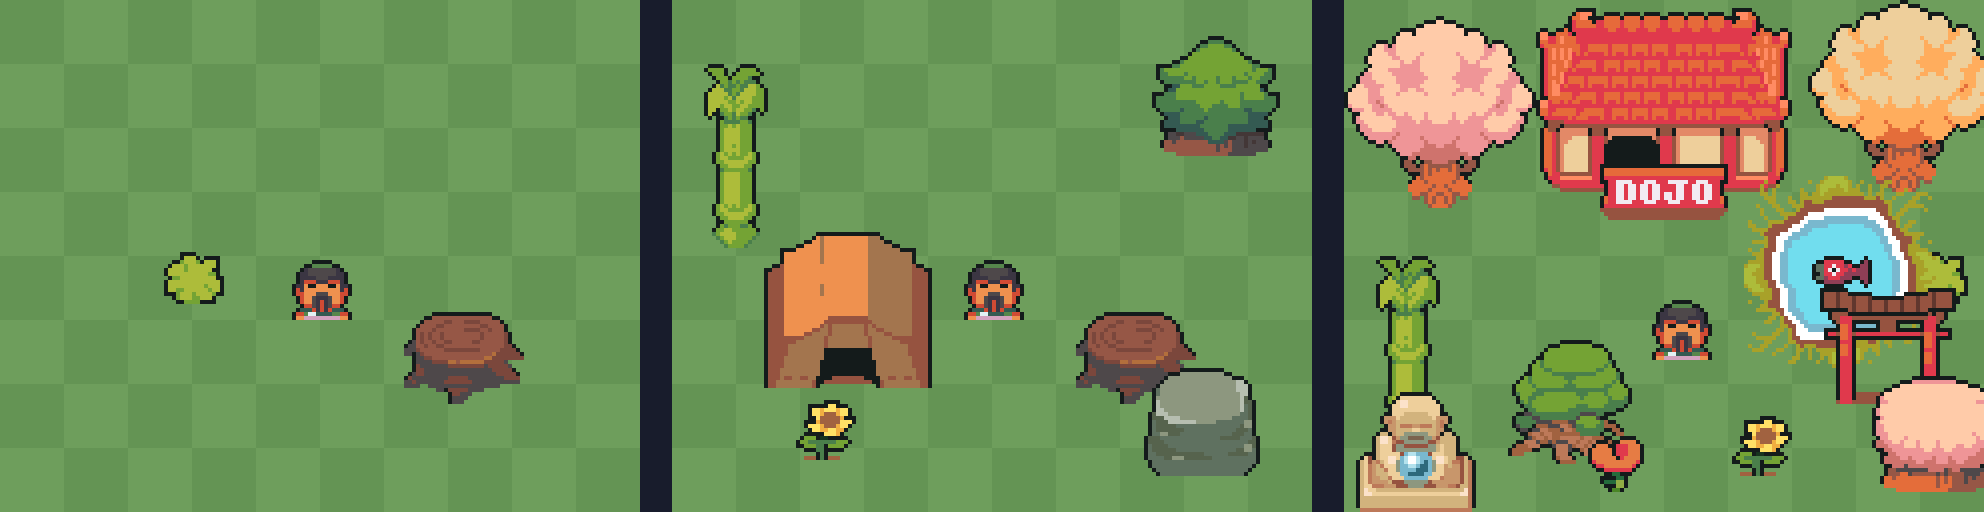
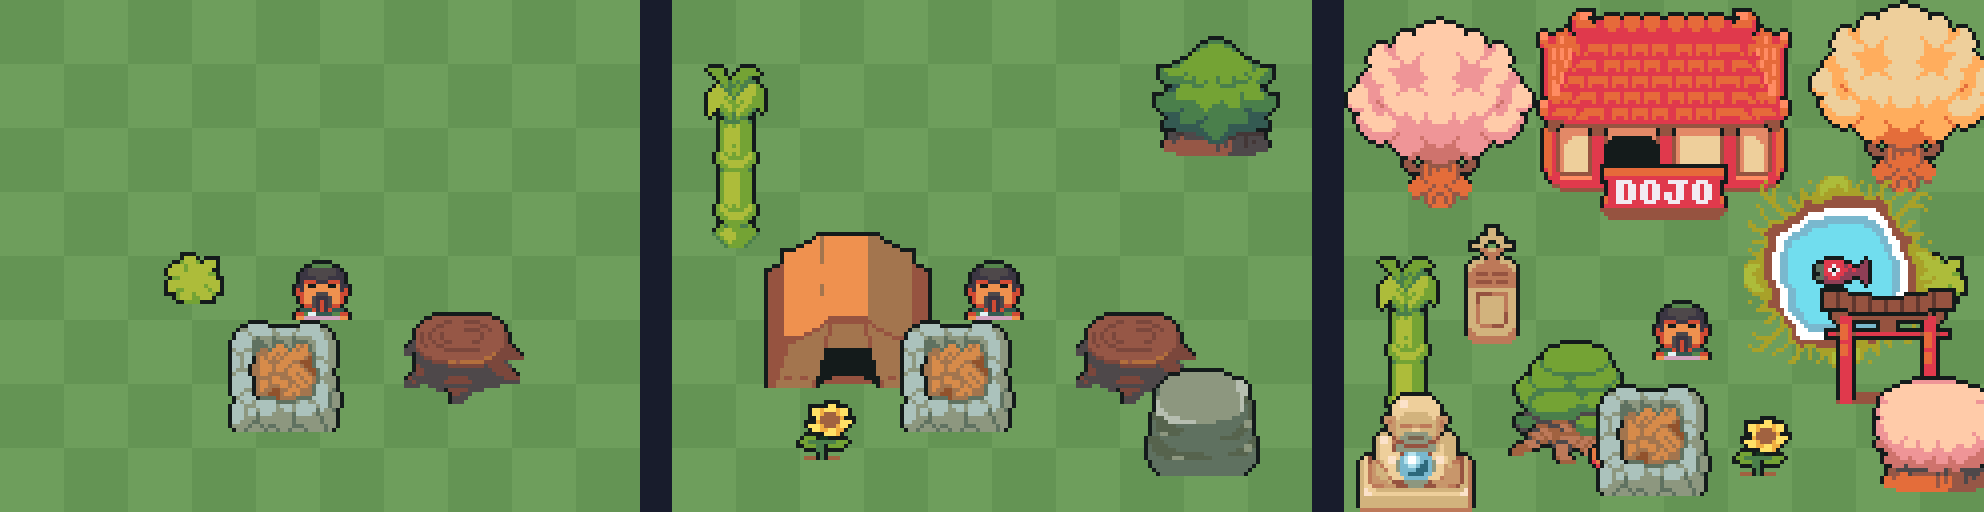
feat(art): fire pit, training post, bridge, potted plant sprites + 8 belt-coloured hero sheets [T2]

diff --git a/art/tools/build_sprites.py b/art/tools/build_sprites.py
@@ -41,7 +41,14 @@ SPRITES: dict[str, tuple[str, int, int, int, int]] = {
     "tent": ("TilesetHouse.png", 0, 112, 48, 48),
     "statue": ("TilesetHouse.png", 48, 240, 32, 32),
     "pond": ("TilesetWater.png", 0, 96, 48, 48),
+    "fire-pit": ("tileset_camp.png", 161, 50, 30, 28),
+    "training-post": ("TilesetElement.png", 1, 81, 14, 30),
+    "potted-plant": ("TilesetElement.png", 0, 120, 15, 24),
+    "bridge": ("TilesetHouse.png", 144, 240, 48, 48),
 }
+
+# The Monk's headband pixels (dark, light). Recoloured per belt so the headband shows your rank.
+HEADBAND = ((52, 90, 82), (86, 134, 76))
 
 # Belt colours for palette-swapping the character's belt pixels.
 BELTS = {
@@ -78,8 +85,28 @@ def knock_out_edges(img: Image.Image, tolerance: int = 40) -> Image.Image:
 
 def character() -> Image.Image:
     """First frame (facing down) of the pack's Monk sprite sheet: 16x16 cells, 4 columns."""
-    sheet = Image.open(PACK / "Actor" / "Character" / "Monk" / "SpriteSheet.png").convert("RGBA")
-    return sheet.crop((0, 0, 16, 16))
+    return monk_sheet().crop((0, 0, 16, 16))
+
+
+def monk_sheet() -> Image.Image:
+    return Image.open(PACK / "Actor" / "Character" / "Monk" / "SpriteSheet.png").convert("RGBA")
+
+
+def shade(rgb: tuple[int, int, int], factor: float) -> tuple[int, int, int]:
+    return tuple(max(0, min(255, int(c * factor))) for c in rgb)
+
+
+def belt_sheet(colour: tuple[int, int, int]) -> Image.Image:
+    """Palette swap: the headband's dark/light greens become the belt colour's dark/light shades."""
+    sheet = monk_sheet()
+    swap = {HEADBAND[0]: shade(colour, 0.7), HEADBAND[1]: colour}
+    px = sheet.load()
+    for y in range(sheet.height):
+        for x in range(sheet.width):
+            r, g, b, a = px[x, y]
+            if a and (r, g, b) in swap:
+                px[x, y] = (*swap[(r, g, b)], a)
+    return sheet
 
 
 def grass_ground(cols: int, rows: int) -> Image.Image:
@@ -116,12 +143,22 @@ def main() -> int:
     hero = character()
     sprites["hero"] = hero
     hero.save(OUT / "hero.png")
+    belts = []
+    for name, colour in BELTS.items():
+        sheet = belt_sheet(colour)
+        sheet.save(OUT / f"belt-{name}.png")  # full animation sheet per belt
+        belts.append(sheet.crop((0, 0, 16, 16)))
+    row = Image.new("RGBA", (len(belts) * 20, 16), (24, 28, 44, 255))
+    for i, frame in enumerate(belts):
+        row.alpha_composite(frame, (i * 20 + 2, 0))
+    row.resize((row.width * 6, row.height * 6), Image.NEAREST).save(PREVIEW / "belts.png")
 
-    bare = [("grass-tuft", 40, 60), ("hero", 72, 64), ("stump", 100, 72)]
+    bare = [("grass-tuft", 40, 60), ("hero", 72, 64), ("stump", 100, 72), ("fire-pit", 56, 80)]
     growing = bare + [("bamboo", 8, 16), ("pine", 120, 8), ("sunflower", 30, 100), ("boulder", 116, 88), ("tent", 20, 50)]
     thriving = [("dojo", 48, 0), ("dojo-sign", 64, 40), ("torii", 112, 70), ("cherry", 0, 4), ("maple", 116, 0),
                 ("bamboo", 8, 64), ("bonsai", 40, 84), ("pink-bush", 132, 92), ("statue", 2, 96), ("hero", 76, 74),
-                ("sunflower", 96, 104), ("red-flower", 60, 108), ("grass-tuft", 140, 60), ("pond", 100, 44), ("koi", 116, 60)]
+                ("sunflower", 96, 104), ("red-flower", 60, 108), ("grass-tuft", 140, 60), ("pond", 100, 44), ("koi", 116, 60),
+                ("fire-pit", 62, 96), ("training-post", 30, 56)]
     frames = [scene(s, sprites) for s in (bare, growing, thriving)]
     gap = 8
     strip = Image.new("RGBA", (sum(f.width for f in frames) + gap * 2, frames[0].height), (24, 28, 44, 255))

diff --git a/docs/ART-PLAN.md b/docs/ART-PLAN.md
@@ -8,7 +8,7 @@ included, 1,915 PNGs). 21 garden sprites are already cut out by `art/tools/build
 
 | Catalog item (MasteryCore) | Pack sprite | Source | Status |
 |---|---|---|---|
-| Fire Pit (starter) | camp fire / brazier | tileset_camp.png | to crop |
+| Fire Pit (starter) | stone fire ring with logs | tileset_camp.png 161,50 | **done** (animated flame: FX later) |
 | Raked Gravel / Moss | floor tiles | TilesetFloor / TilesetFloorDetail | to crop (ground layer) |
 | Stepping Stone | small rocks | TilesetNature (rock row) | to crop |
 | Boulder | grey boulder | TilesetNature 256,128 | **done** |
@@ -19,8 +19,8 @@ included, 1,915 PNGs). 21 garden sprites are already cut out by `art/tools/build
 | Cherry Blossom | pink tree | TilesetNature 0,288 | **done** |
 | Stone Lantern | stone statue / column | TilesetHouse (stone set) | to crop or **draw** (no true tōrō in pack) |
 | Koi Pond | grass-edged pond + red/white/yellow fish | TilesetWater 0,96 + Actor/Animal/Fish | **done** (pond edge needs autotile cleanup) |
-| Arched Bridge | wooden bridge | TilesetHouse (planks) | to crop |
-| Training Post | wooden dummy | TilesetElement | to crop |
+| Arched Bridge | wooden planks | TilesetHouse 144,240 | cropped, needs a proper bridge shape |
+| Training Post | wooden post figure | TilesetElement 1,81 | **done** |
 | Tent | tent | TilesetHouse 0,112 | **done** |
 | Torii Gate | red torii | TilesetHouse 0,80 | **done** |
 | Dojo | red-roof hall + "DOJO" sign | TilesetHouse 192,0 + 64,64 | **done** |
@@ -42,12 +42,11 @@ included, 1,915 PNGs). 21 garden sprites are already cut out by `art/tools/build
 
 ## 3. Build steps (in order)
 
-1. **Cut the remaining sprites**: fire pit, gravel/moss, stepping stone, bridge, training post, lantern stand-in.
-   Extend `SPRITES` in `art/tools/build_sprites.py`.
+1. ~~Cut the remaining sprites~~ fire pit, training post, potted plant and bridge planks are **done**. Still left: gravel/moss ground, stepping stone.
 2. **Ground**: replace the flat two-tone grass with the pack's grass autotile (`TilesetFloor`), and fix the pond
    edge (render it with the water autotile instead of a single tile).
 3. **Draw 2 missing pieces** (16 px grid, pack palette only): stone lantern and pagoda (stacked roofs).
-4. **Belt hero**: script a palette swap and write `belt-<colour>.png` × 8.
+4. ~~Belt hero~~ **Done**: `belt-<colour>.png` × 8 (full animation sheets); the headband and sash take the belt colour. Preview: `art/preview/belts.png`.
 5. **Asset catalog**: export every sprite at 1x into `App/Resources/Assets.xcassets/Sprites/` and render it in
    SwiftUI with `.interpolation(.none)` at an integer scale (4x = 64 pt tiles).
 6. **Swap the renderer**: `WorldView` moves from isometric emoji to a **top-down** sprite grid (the pack's view),
